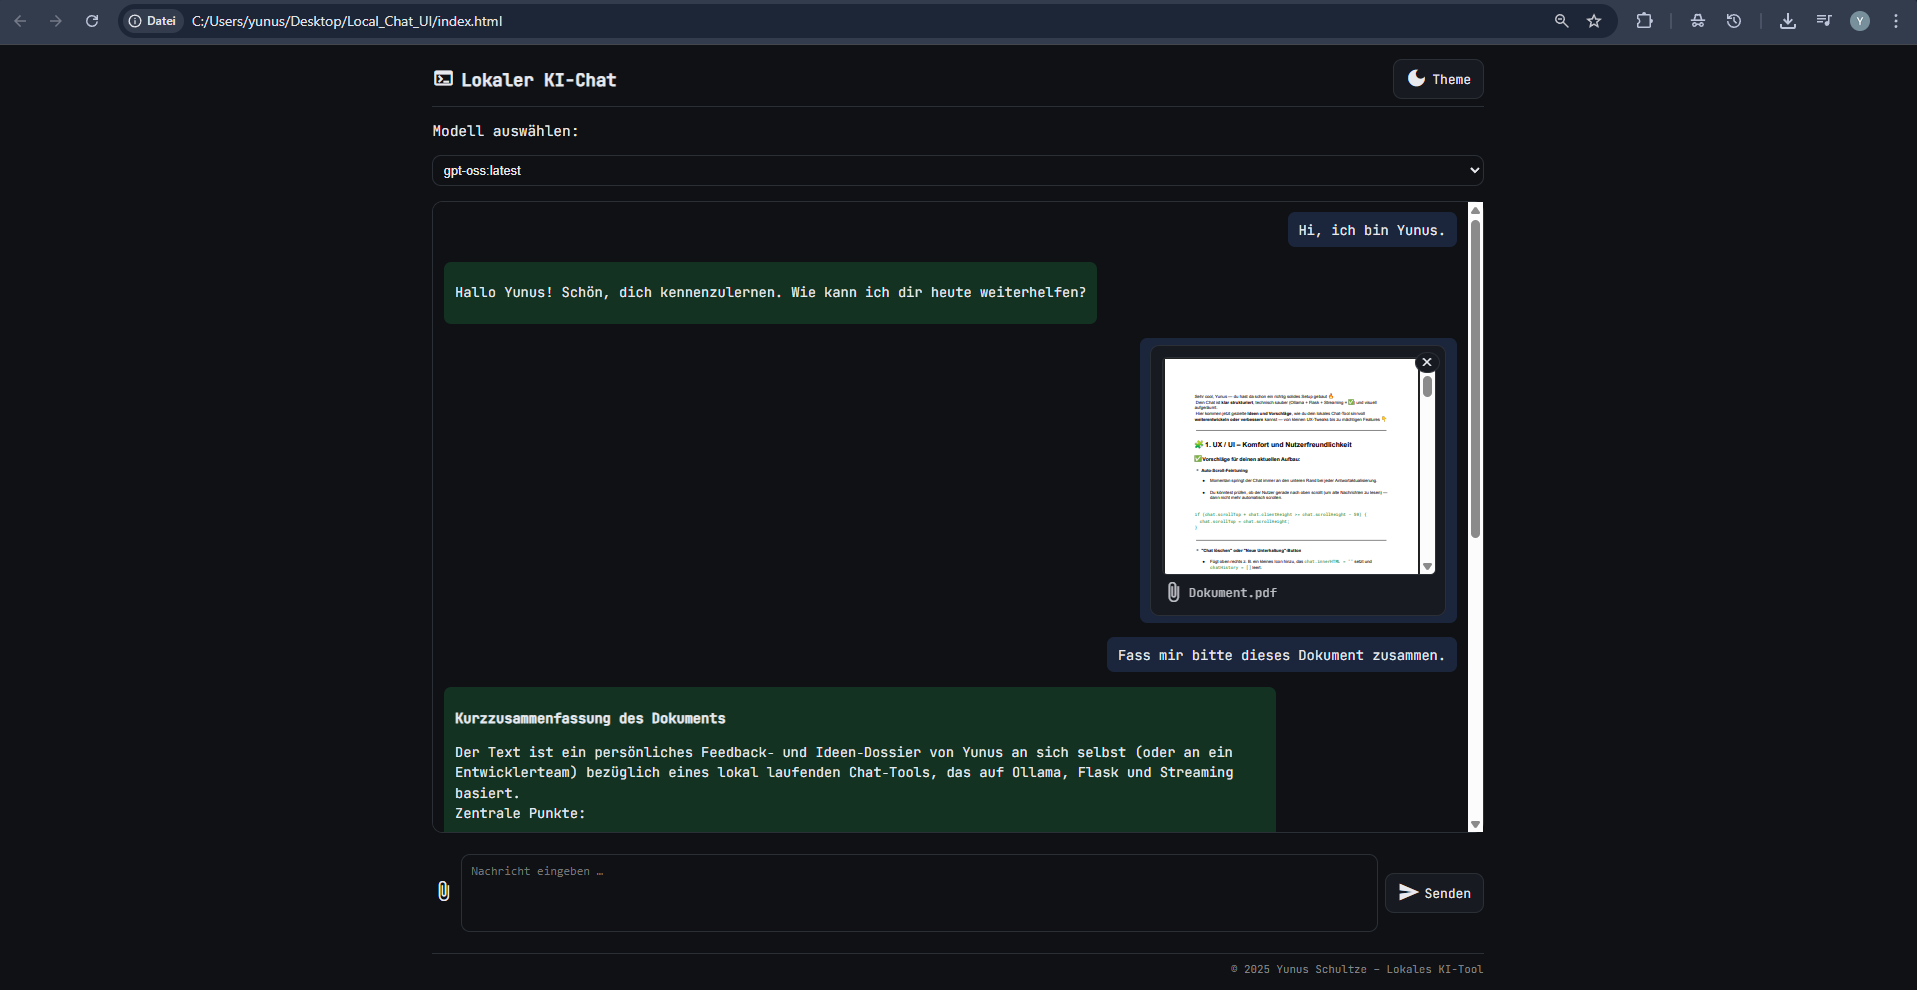
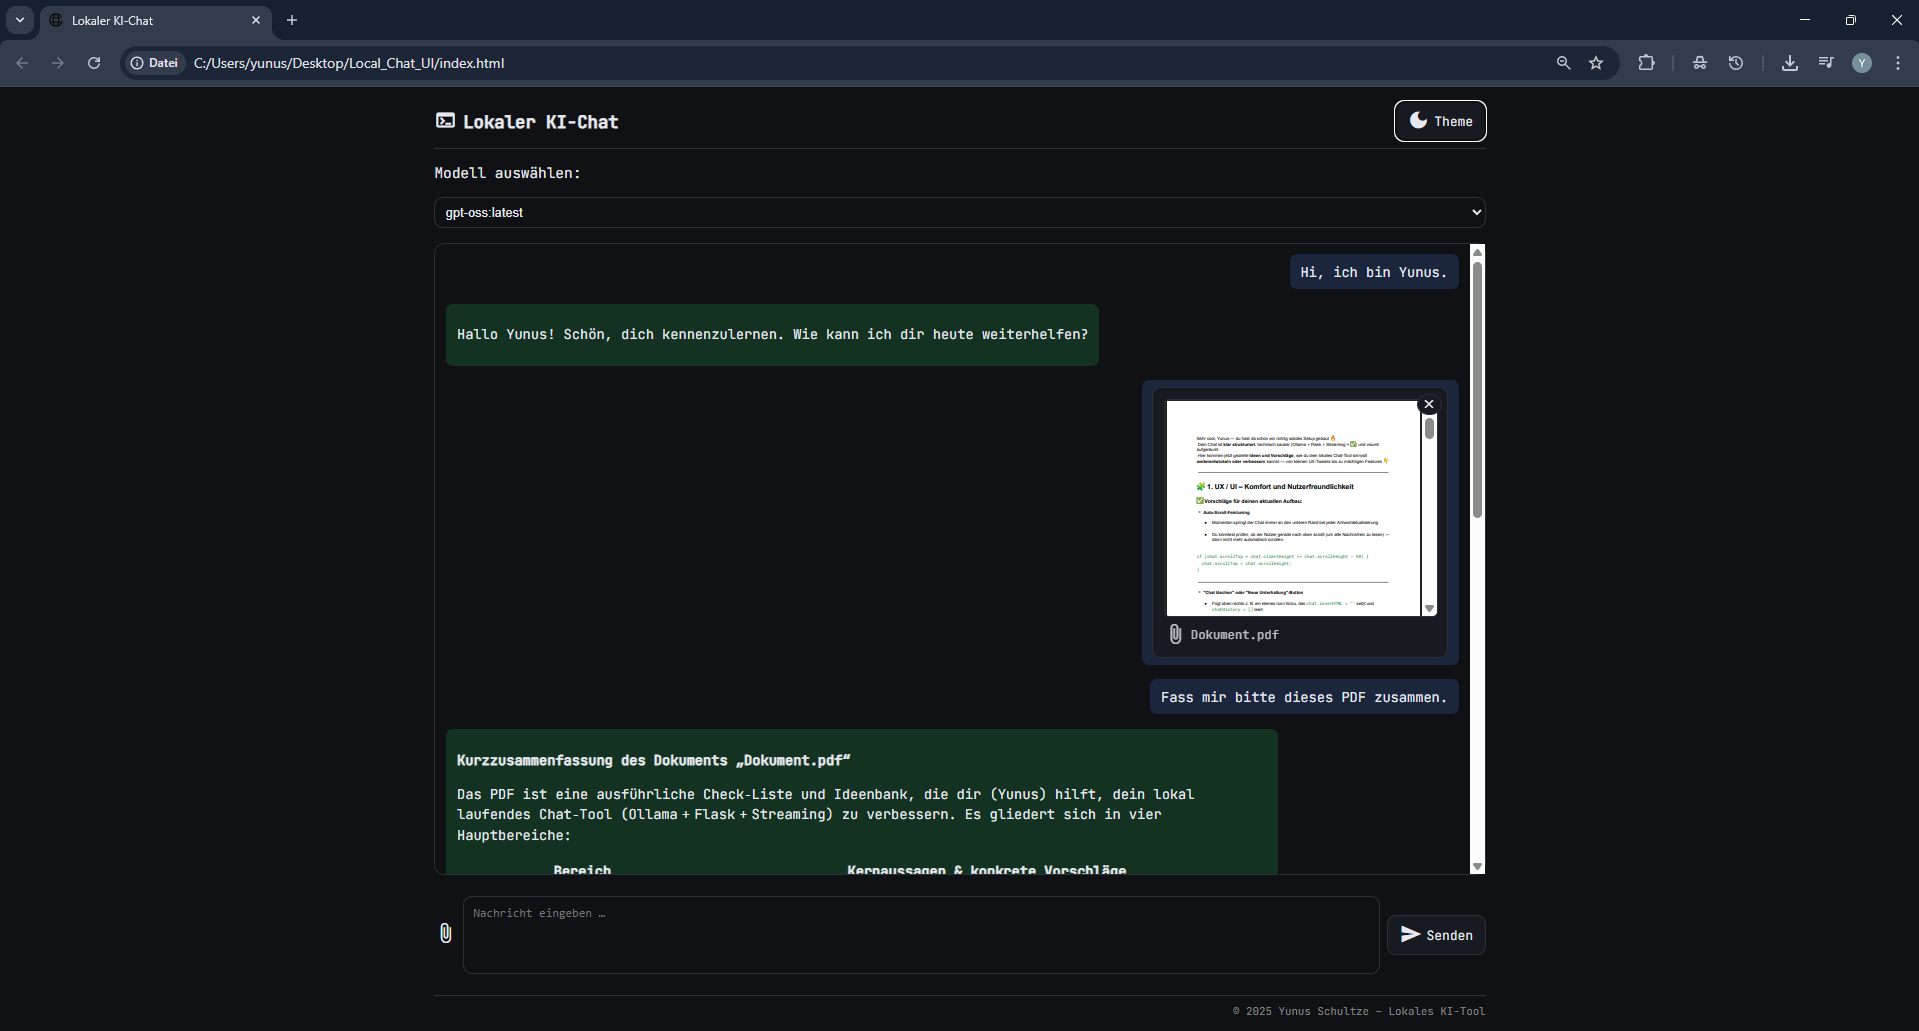
updated demo screenshots

diff --git a/README.md b/README.md
@@ -4,8 +4,15 @@ Ein vollständig lokaler KI-Chatbot mit Datei-Upload, Markdown-Rendering, Theme-
 Er nutzt **Ollama** als Backend, um LLMs lokal laufen zu lassen – **ohne API-Keys oder Cloud**.
 
 ---
-![Screenshot der Chat-UI](assets/screenshot_ui.png)
+
+## Demo
+Darkmode
+![Screenshot der Chat-UI](assets/screenshot_ui_whitemode.png)
 ---
+
+Whitemode + Modellauswahl
+Darkmode
+![Screenshot der Chat-UI](assets/screenshot_ui.png)
 
 ## 🚀 Funktionen
 - 🧠 Chat mit lokalem KI-Modell (Ollama)
